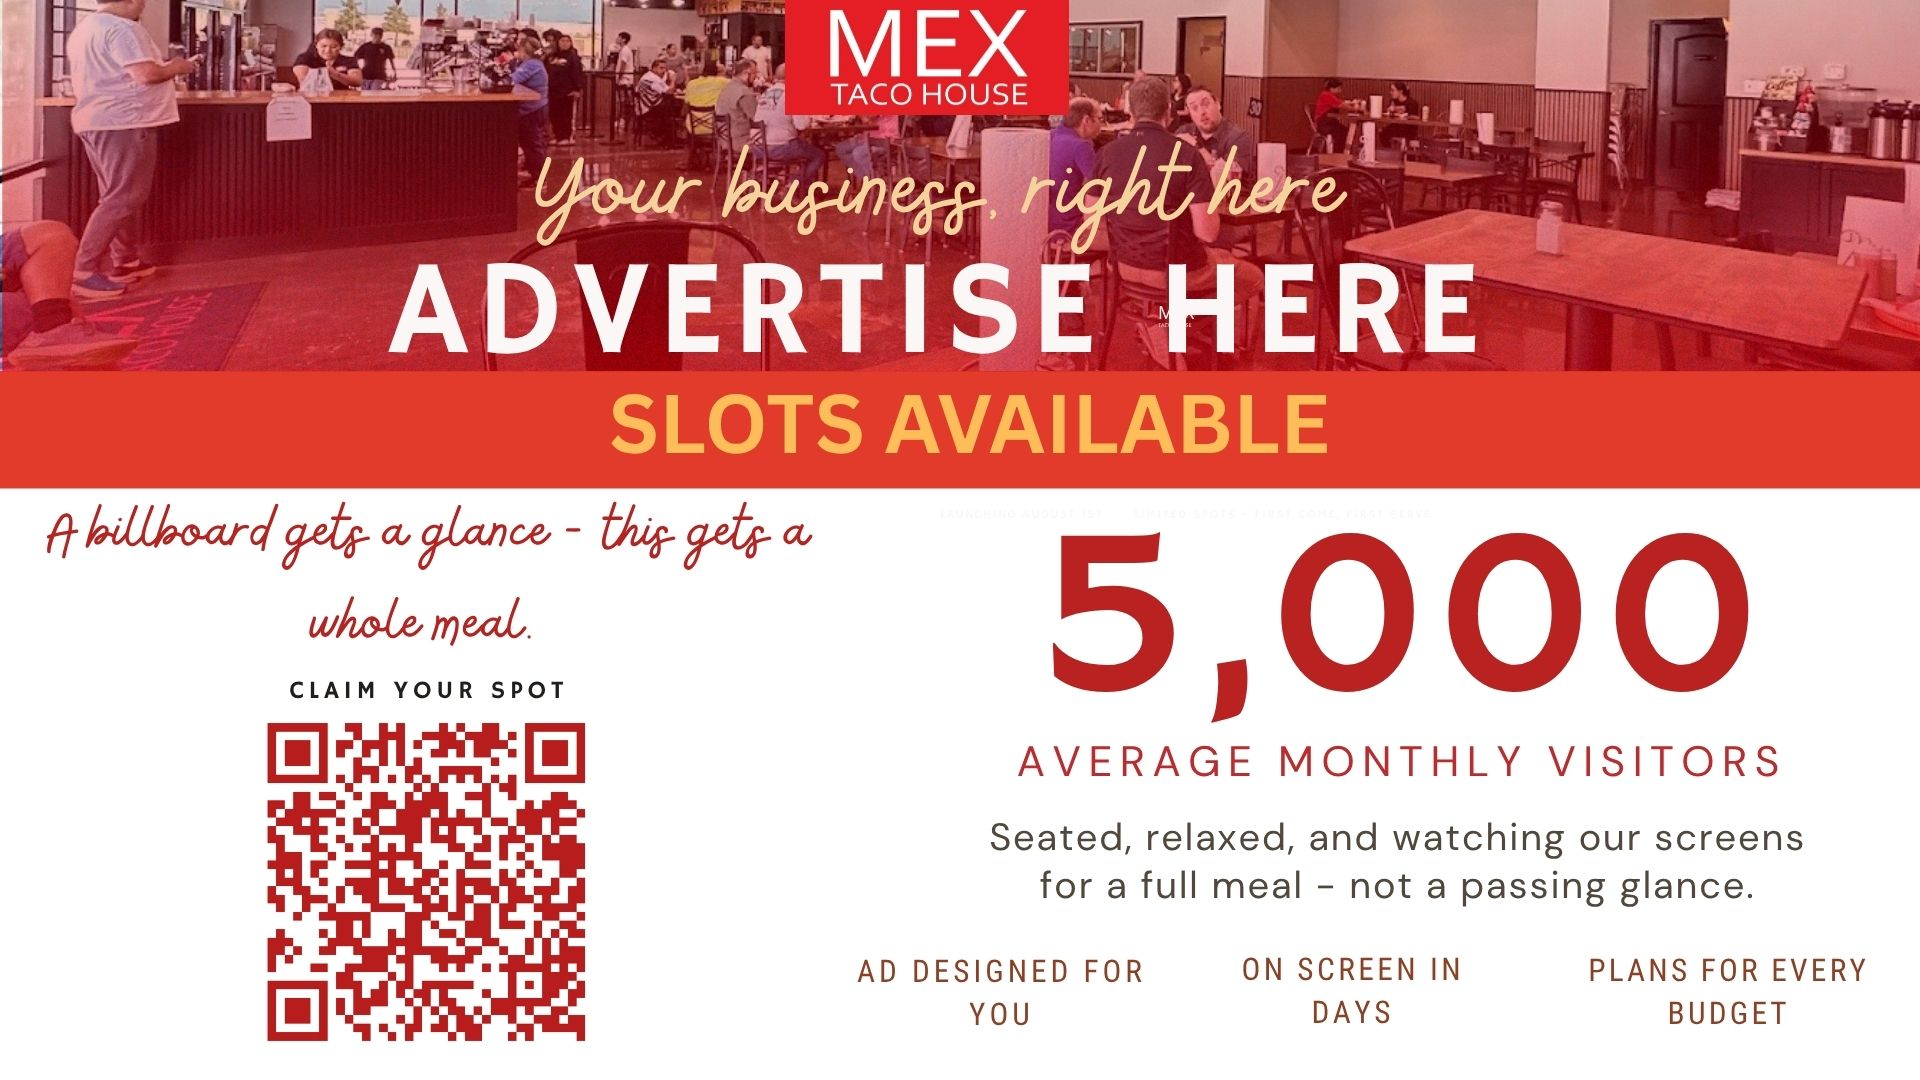
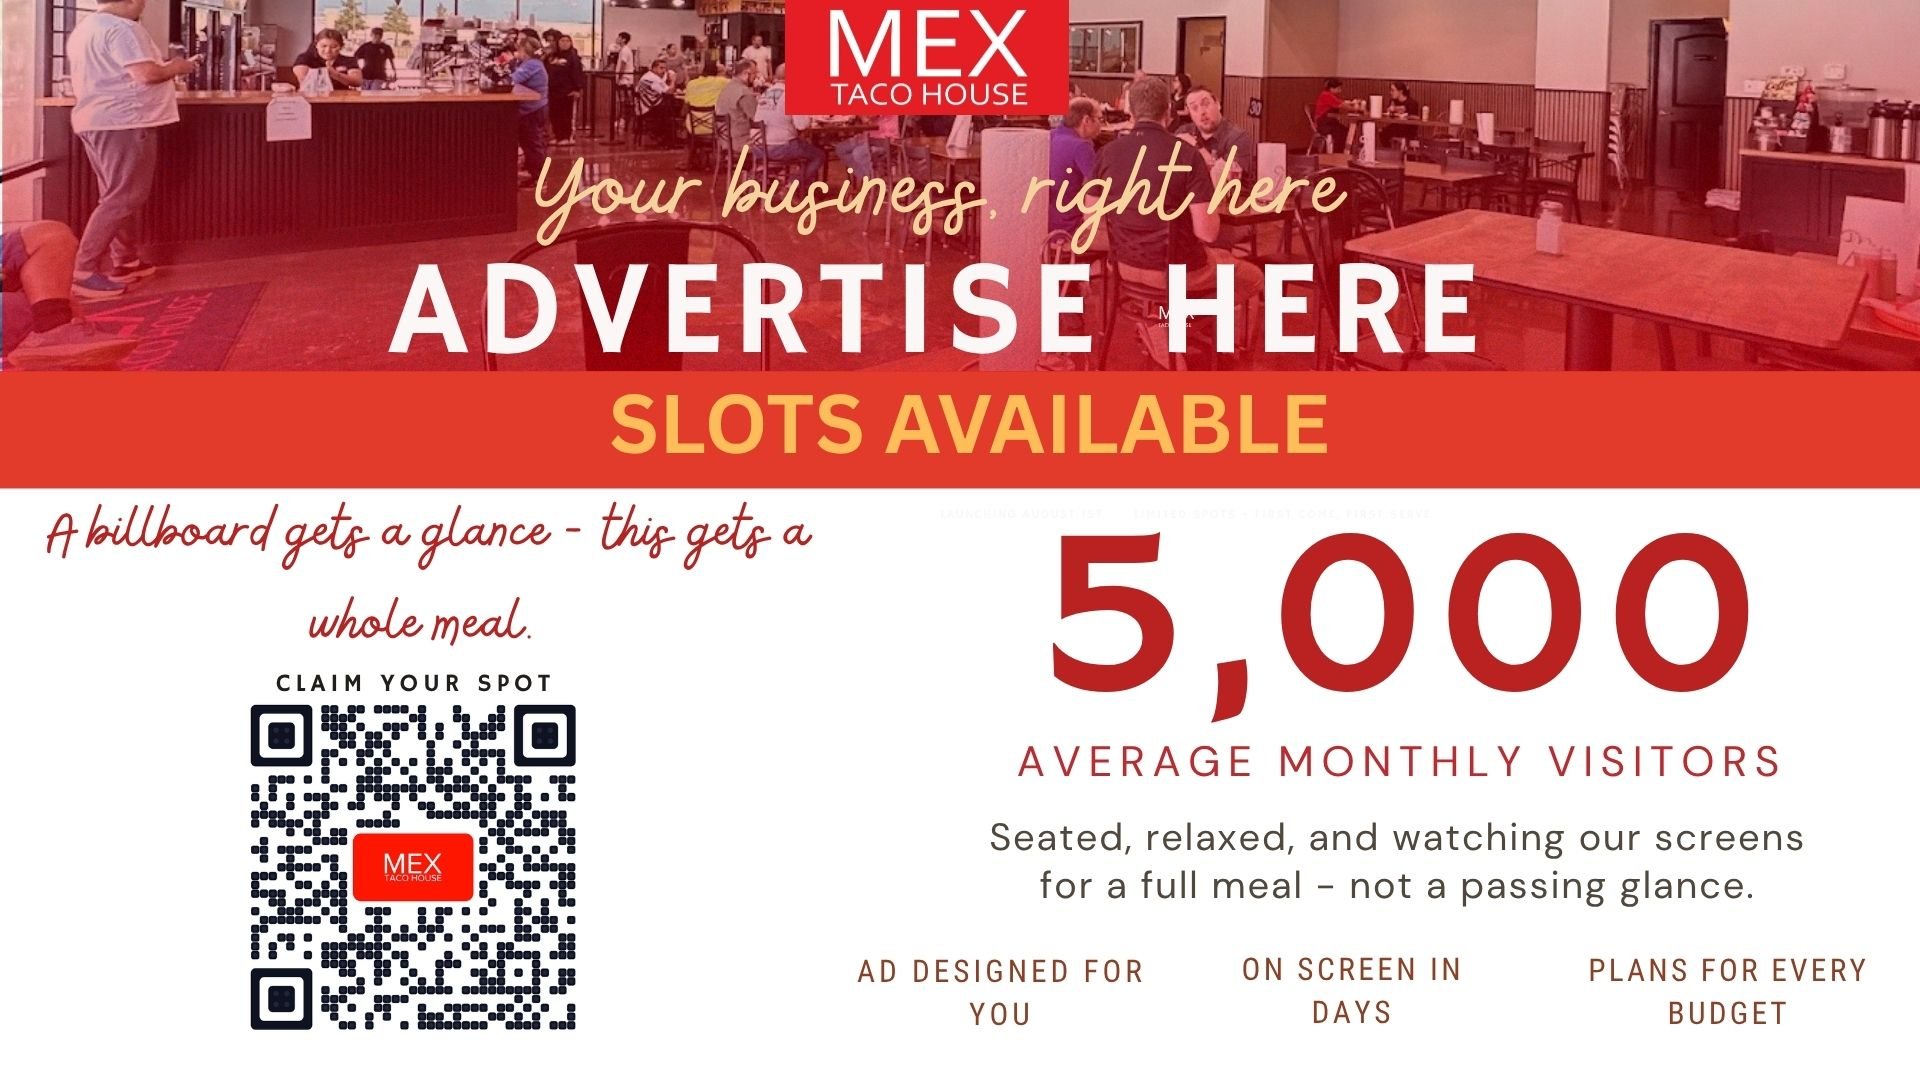
Update Advertise Here and Smart Scale ads on TV 1
Both slides now carry a branded logo in the middle of their QR code —
the Mex Taco House mark on Advertise Here, the Smart Scale mark on its
own. Smart Scale also drops its filename suffix; the number prefix is
untouched, so the running order is unchanged.

A logo in the centre of a QR eats into the error-correction budget it
relies on to stay readable, so both codes were decoded before shipping
rather than assumed good. Both read at full confidence through the macOS
Vision detector — the one an iPhone camera actually uses — and still
decode when downscaled to 480p, well below what a diner scanning from a
table would have to work with.

Destinations are unchanged from the slides they replace, and both return
200:

  Advertise Here -> https://smartscaleagent.com/advertise
  Smart Scale    -> https://smartscaleagent.com/

Changed region(s): [[0.125, 0.6111, 0.3125, 0.9778]]

diff --git a/README.md b/README.md
@@ -91,7 +91,7 @@ Current TV 1 order:
 10-andre-thomas-law.png
 20-mex-taco-catering.jpg
 30-advertise-here.jpg
-40-smart-scale-ad.jpg
+40-smart-scale.jpg
 50-bloxify-ad.mp4
 ```
 
@@ -151,7 +151,7 @@ public/
       10-andre-thomas-law.png
       20-mex-taco-catering.jpg
       30-advertise-here.jpg
-      40-smart-scale-ad.jpg
+      40-smart-scale.jpg
       50-bloxify-ad.mp4
     tv2/          ← ads for TV 2
       10-advertise-here.jpg
